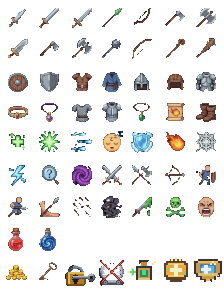
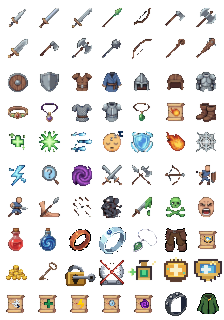
added new images for scrolls and misc items

diff --git a/godot/tests/ActionFeedbackChecks.cs b/godot/tests/ActionFeedbackChecks.cs
@@ -340,6 +340,18 @@ public partial class ActionFeedbackChecks : BattleController
             ["healers-circlet"] = new(0, 3),
             ["mages-amulet"] = new(1, 3),
             ["boots-of-speed"] = new(6, 3),
+            ["ranger-cloak"] = new(6, 9),
+            ["copper-ring"] = new(2, 7),
+            ["silver-ring"] = new(3, 7),
+            ["silverleaf-pendant"] = new(4, 7),
+            ["trailblazer-leggings"] = new(5, 7),
+            ["blessing-scroll"] = new(6, 7),
+            ["web-scroll"] = new(0, 9),
+            ["greater-heal-scroll"] = new(1, 9),
+            ["lightning-bolt-scroll"] = new(2, 9),
+            ["identify-scroll"] = new(3, 9),
+            ["teleport-scroll"] = new(4, 9),
+            ["iron-ring"] = new(5, 9),
             ["healing-potion"] = new(0, 7),
             ["magic-potion"] = new(1, 7),
             ["gold"] = new(0, 8),
@@ -366,8 +378,8 @@ public partial class ActionFeedbackChecks : BattleController
             Check(icon != null && icon.Region == expectedRegion,
                 $"{entry.Key} must use its assigned 32px atlas cell");
             if (icon == null) continue;
-            Check(icon.Atlas.GetWidth() == 224 && icon.Atlas.GetHeight() == 288,
-                "Extended icon atlas must retain seven columns and add two rows");
+            Check(icon.Atlas.GetWidth() == 224 && icon.Atlas.GetHeight() == 320,
+                "Extended icon atlas must retain seven columns and contain ten rows");
             using var image = icon.Atlas.GetImage();
             using var cell = image.GetRegion(new Rect2I(entry.Value * 32, new Vector2I(32, 32)));
             Check(!cell.IsInvisible(), $"{entry.Key} atlas cell must contain visible artwork");

diff --git a/godot/scripts/HudController.cs b/godot/scripts/HudController.cs
@@ -118,12 +118,19 @@ public partial class HudController : Control
         ["boots-of-speed"] = new(6, 3),
         ["healers-circlet"] = new(0, 3),
         ["mages-amulet"] = new(1, 3),
-        ["silverleaf-pendant"] = new(4, 3),
-        ["trailblazer-leggings"] = new(6, 3),
-        ["ranger-cloak"] = new(6, 2),
-        ["copper-ring"] = new(1, 3),
-        ["silver-ring"] = new(4, 3),
+        ["silverleaf-pendant"] = new(4, 7),
+        ["trailblazer-leggings"] = new(5, 7),
+        ["ranger-cloak"] = new(6, 9),
+        ["copper-ring"] = new(2, 7),
+        ["silver-ring"] = new(3, 7),
         ["fireball-scroll"] = new(5, 3),
+        ["blessing-scroll"] = new(6, 7),
+        ["web-scroll"] = new(0, 9),
+        ["greater-heal-scroll"] = new(1, 9),
+        ["lightning-bolt-scroll"] = new(2, 9),
+        ["identify-scroll"] = new(3, 9),
+        ["teleport-scroll"] = new(4, 9),
+        ["iron-ring"] = new(5, 9),
         ["gold"] = new(0, 8),
         ["healing-potion"] = new(0, 7),
         ["magic-potion"] = new(1, 7),
